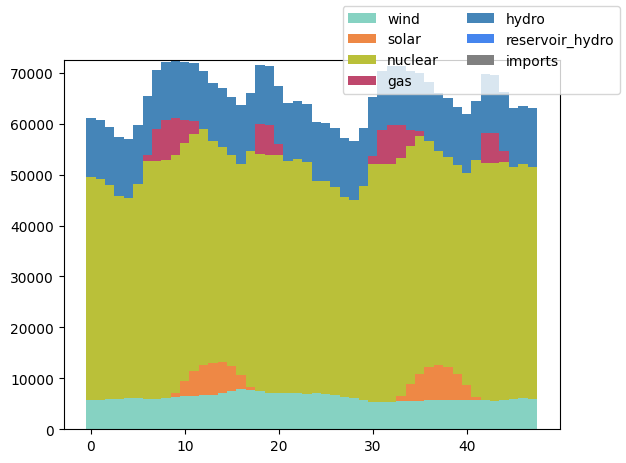
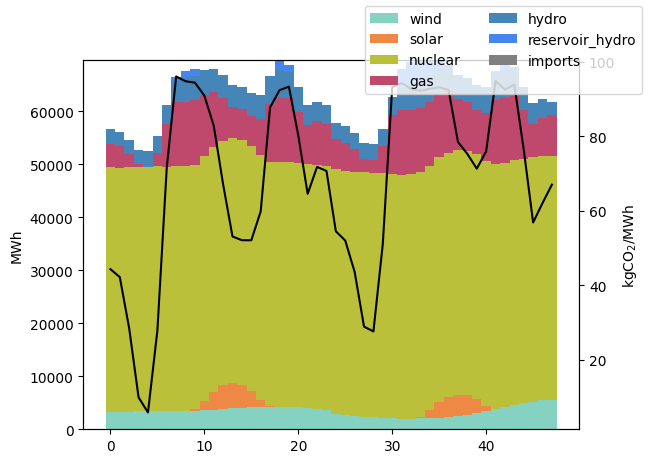
hydro power fix

diff --git a/optimizer/sources.py b/optimizer/sources.py
@@ -1,6 +1,5 @@
 from abc import ABC, abstractmethod
 
-
 import numpy as np
 
 from .rte import RTEAPIClient
@@ -8,7 +7,7 @@ import yaml
 
 from os.path import join as opj
 
-from datetime import datetime
+from datetime import datetime, timedelta
 
 
 # TODO:
@@ -199,6 +198,7 @@ class CoalPower(PowerSource):
         return availability
 
 
+# should be forced to production at T-1
 class HydroPower(PowerSource):
     def __init__(self):
         super().__init__()
@@ -207,16 +207,62 @@ class HydroPower(PowerSource):
         start_dtime = datetime.strptime(start, "%Y-%m-%dT%H:%M:%S%z")
         end_dtime = datetime.strptime(end, "%Y-%m-%dT%H:%M:%S%z")
         n_bins = int((end_dtime - start_dtime).total_seconds() / 3600)
-        availability = [self.installed_capacity] * n_bins
 
-        units_unavailabilities = self.retrieve_unavailabilities(
-            "HYDRO_RUN_OF_RIVER_AND_POUNDAGE",
-            start,
-            end,
+        availability = np.zeros(n_bins)
+        data_points = np.zeros(n_bins)
+
+        past_start = datetime.strftime(
+            start_dtime
+            - timedelta(days=(end_dtime - start_dtime).total_seconds() / 86400),
+            "%Y-%m-%dT%H:%M:%S%z",
+        )
+        past_start = "{0}:{1}".format(past_start[:-2], past_start[-2:])
+        past_end = start
+
+        api = RTEAPIClient()
+        res = api.request(
+            f"http://digital.iservices.rte-france.com/open_api/actual_generation/v1/actual_generations_per_production_type?start_date={past_start}&end_date={past_end}",
         )
 
-        for unit in units_unavailabilities:
-            availability -= units_unavailabilities[unit]
+        data = res.json()
+
+        for production in data["actual_generations_per_production_type"]:
+            if production["production_type"] != "HYDRO_RUN_OF_RIVER_AND_POUNDAGE":
+                continue
+
+            t_begin = np.array(
+                [
+                    (
+                        datetime.strptime(v["start_date"], "%Y-%m-%dT%H:%M:%S%z")
+                        - start_dtime
+                    ).total_seconds()
+                    / 3600
+                    for v in production["values"]
+                ]
+            ).astype(int)
+
+            t_end = np.array(
+                [
+                    (
+                        datetime.strptime(v["end_date"], "%Y-%m-%dT%H:%M:%S%z")
+                        - start_dtime
+                    ).total_seconds()
+                    / 3600
+                    for v in production["values"]
+                ]
+            ).astype(int)
+
+            values = np.array([v["value"] for v in production["values"]])
+
+            for i in range(len(t_begin)):
+                availability[t_begin[i] : t_end[i]] += values[i]
+                data_points[t_begin[i] : t_end[i]] += 1
+
+        availability = availability / data_points
+
+        availability[np.isnan(availability)] = np.min(
+            availability[~np.isnan(availability)]
+        )
 
         return availability
 

diff --git a/tests/test_dispatch.py b/tests/test_dispatch.py
@@ -9,7 +9,7 @@ from optimizer.sources import (
     HydroPower,
     ReservoirHydroPower,
     StoredHydroPower,
-    ImportedPower
+    ImportedPower,
 )
 
 from optimizer.production import ProductionPrediction
@@ -61,10 +61,10 @@ def test_consumption(start, end):
     "start,end",
     [
         # ("2020-01-01T00:00:00+01:00", "2020-01-02T00:00:00+01:00"),
-        ("2023-02-01T00:00:00+01:00", "2023-02-03T00:00:00+01:00"),
+        ("2022-12-01T00:00:00+01:00", "2022-12-03T00:00:00+01:00"),
     ],
 )
-def test_consumption(sources, start, end):
+def test_dispatch(sources, start, end):
     start_dtime = datetime.strptime(start, "%Y-%m-%dT%H:%M:%S%z")
     end_dtime = datetime.strptime(end, "%Y-%m-%dT%H:%M:%S%z")
     interval_duration = int((end_dtime - start_dtime).total_seconds() / 3600)
@@ -81,6 +81,10 @@ def test_consumption(sources, start, end):
         production.shape[1] == interval_duration
     ), "production must have as many rows as hours"
 
+    carbon_intensity = np.array(
+        [sources[source].carbon_intensity for source in sources]
+    )
+
     fig, ax = plt.subplots()
 
     t = np.arange(interval_duration)
@@ -92,8 +96,20 @@ def test_consumption(sources, start, end):
         color = sources[source].color
         ax.bar(t, production[n], bottom=total, color=color, label=source, width=1.0)
         total += production[n]
-
         n += 1
+
+    ax.set_ylabel("MWh")
+
+    ci = carbon_intensity @ production
+    ci /= production.sum(axis=0)
+
+    ax2 = ax.twinx()  # instantiate a second axes that shares the same x-axis
+
+    ax2.set_ylabel(
+        "kgCO$_2$/MWh", color="black"
+    )  # we already handled the x-label with ax1
+    ax2.plot(t, ci, color="black")
+    ax2.tick_params(axis="y", labelcolor="black")
 
     fig.legend(ncol=2)
     fig.savefig("output/production.png", bbox_inches="tight")

diff --git a/tests/test_sources.py b/tests/test_sources.py
@@ -24,6 +24,7 @@ def sources(request):
         "gas": GasPower(),
         "coal": CoalPower(),
         "hydro": HydroPower(),
+        "reservoir_hydro": ReservoirHydroPower(),
         "imports": ImportedPower()
     }
     yield sources
